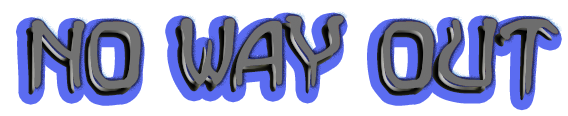
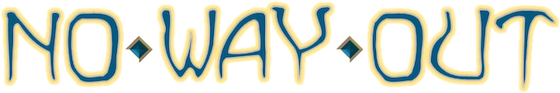
add principal menu title

diff --git a/src/finalproject/FinalProject.java b/src/finalproject/FinalProject.java
@@ -192,7 +192,7 @@ public class FinalProject extends Applet implements Runnable, KeyListener,
         for (int iI = 0; iI < 3; iI ++) {
             arrStrMenuPrincipal[iI][0] = "btnMenuPrincipal_" + iI + "_0.png";
             arrStrMenuPrincipal[iI][1] = "btnMenuPrincipal_" + iI + "_1.png";
-            arrBtnMenuPrincipal[iI] = new msf_Button(405, 150 + iI * 65,
+            arrBtnMenuPrincipal[iI] = new msf_Button(405, 180 + iI * 65,
                     190, 50, arrStrMenuPrincipal[iI][0]);
         }
         
@@ -942,9 +942,9 @@ public class FinalProject extends Applet implements Runnable, KeyListener,
         switch (strPantalla) {
             case "menuPrincipal":
                 //Display image
-                graDibujo.drawImage(imaImagenMenuPrincipal, 40, 128, this);
+                graDibujo.drawImage(imaImagenMenuPrincipal, 40, 158, this);
                 //Display title
-                graDibujo.drawImage(imaTituloMenuPrincipal, 36, 15, this);
+                graDibujo.drawImage(imaTituloMenuPrincipal, 40, 30, this);
                 // Display Buttons
                 for (int i = 0; i < 3; i ++) {
                     arrBtnMenuPrincipal[i].paint(graDibujo, this);
